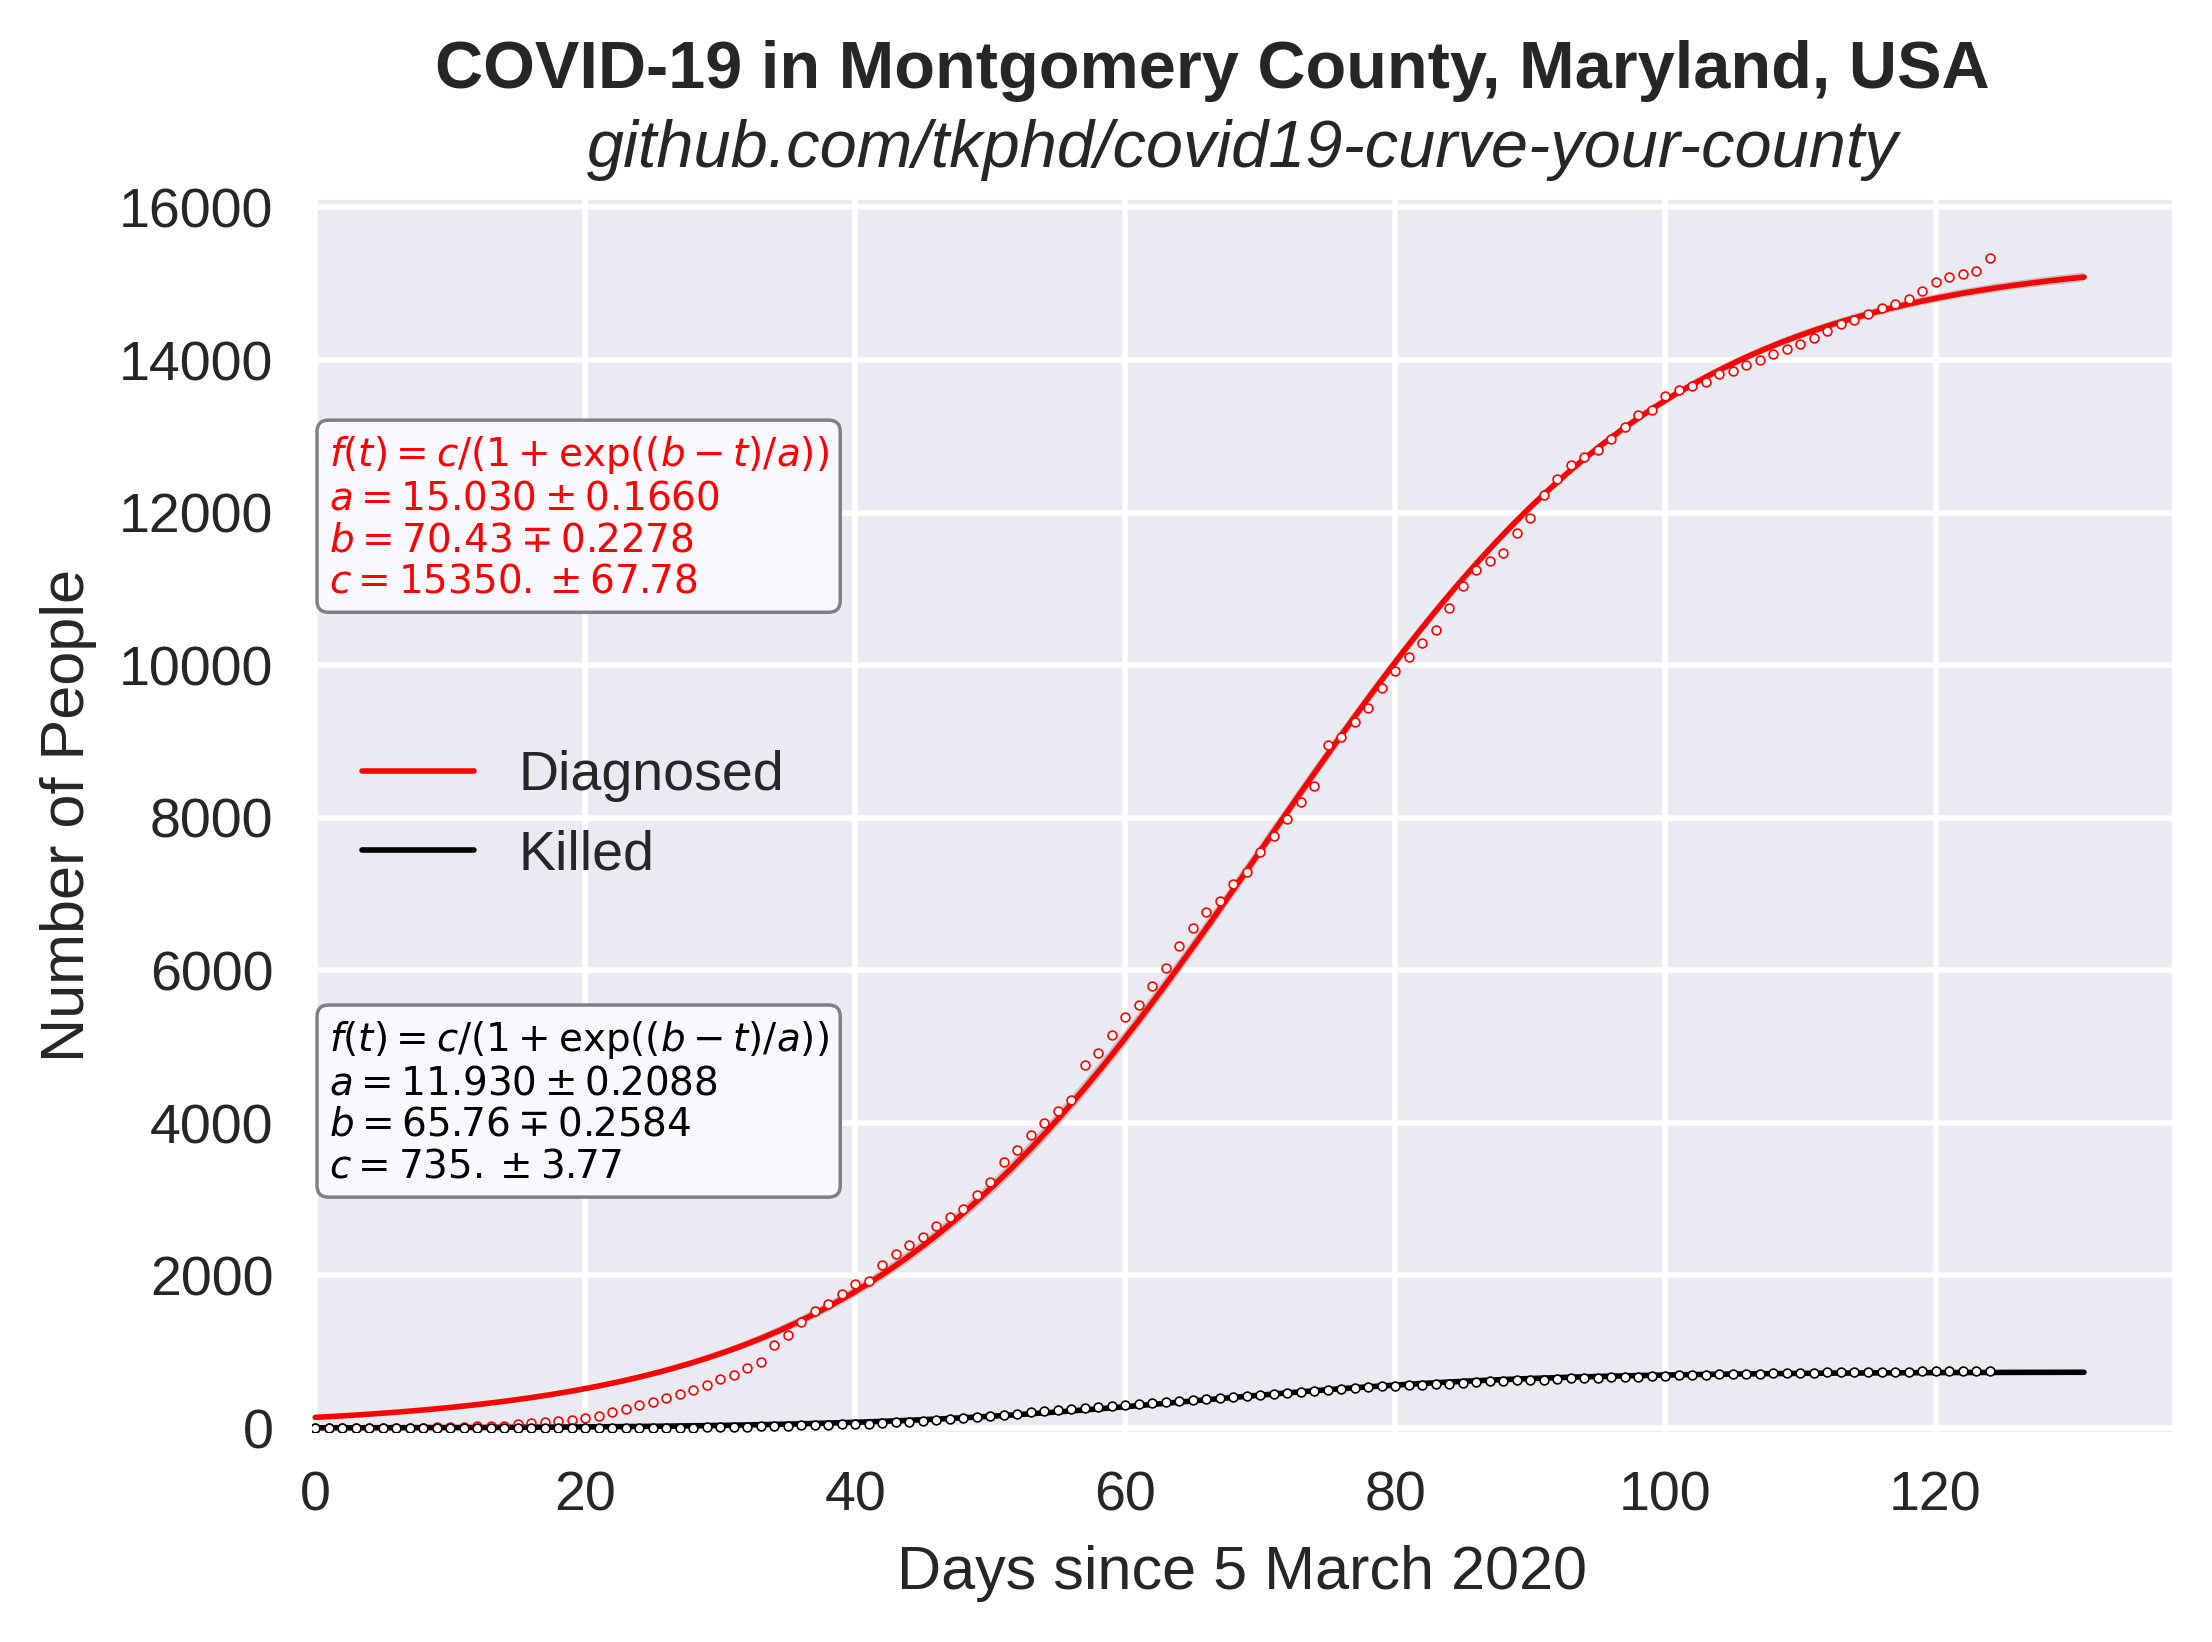
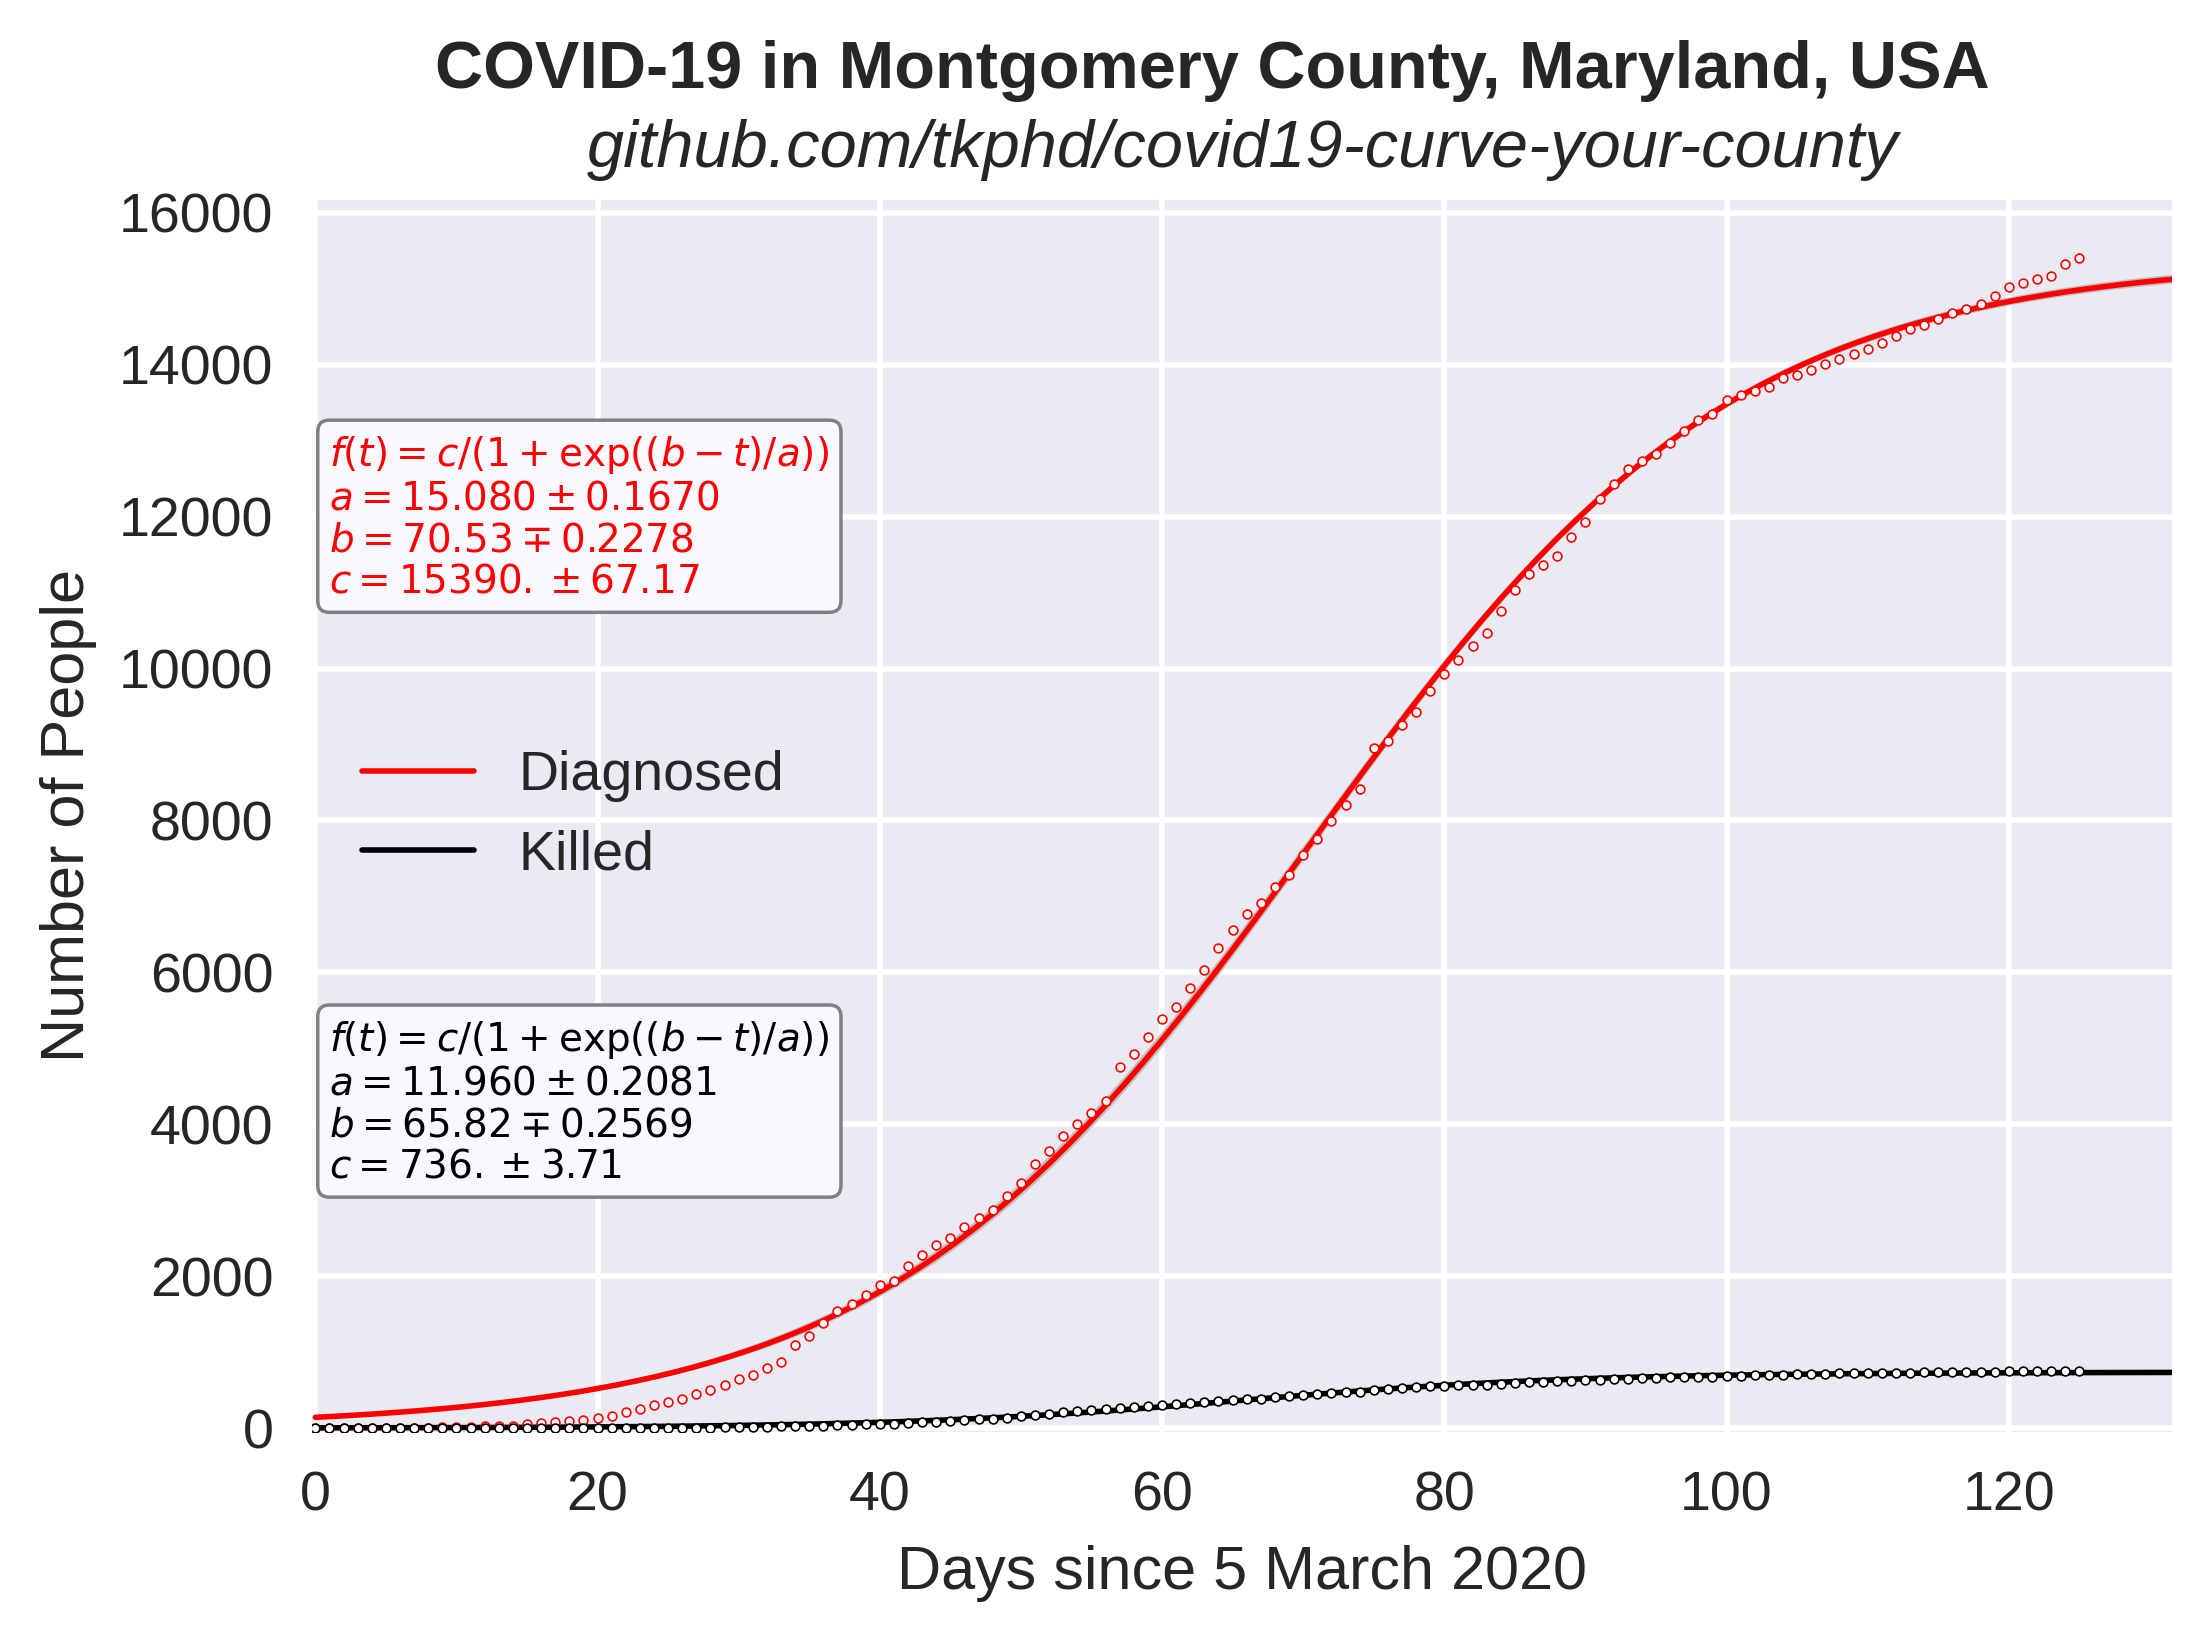
2020-07-08 update

diff --git a/exponential.py b/exponential.py
@@ -200,7 +200,7 @@ for key in columns:
 # Plot Boundaries
 
 tmin, tmax = plt.xlim()
-plt.xlim([-0.2, tmax])
+plt.xlim([-0.2, tmax - 7])
 
 ymin, ymax = plt.ylim()
 plt.ylim([-50, ymax])
@@ -257,7 +257,7 @@ y = np.array(x)
 for i in np.arange(len(y) - 1, 1, -1):
     y[i] -= y[i - 1]
 
-plt.xlim([-20,np.max(x)+20])
+plt.xlim([-20,np.max(x) + 20])
 plt.ylim([0,320])
 
 plt.plot(x, y, "-o", markersize=2.5, linewidth=0.5, color=colors[key], label=key.capitalize())
